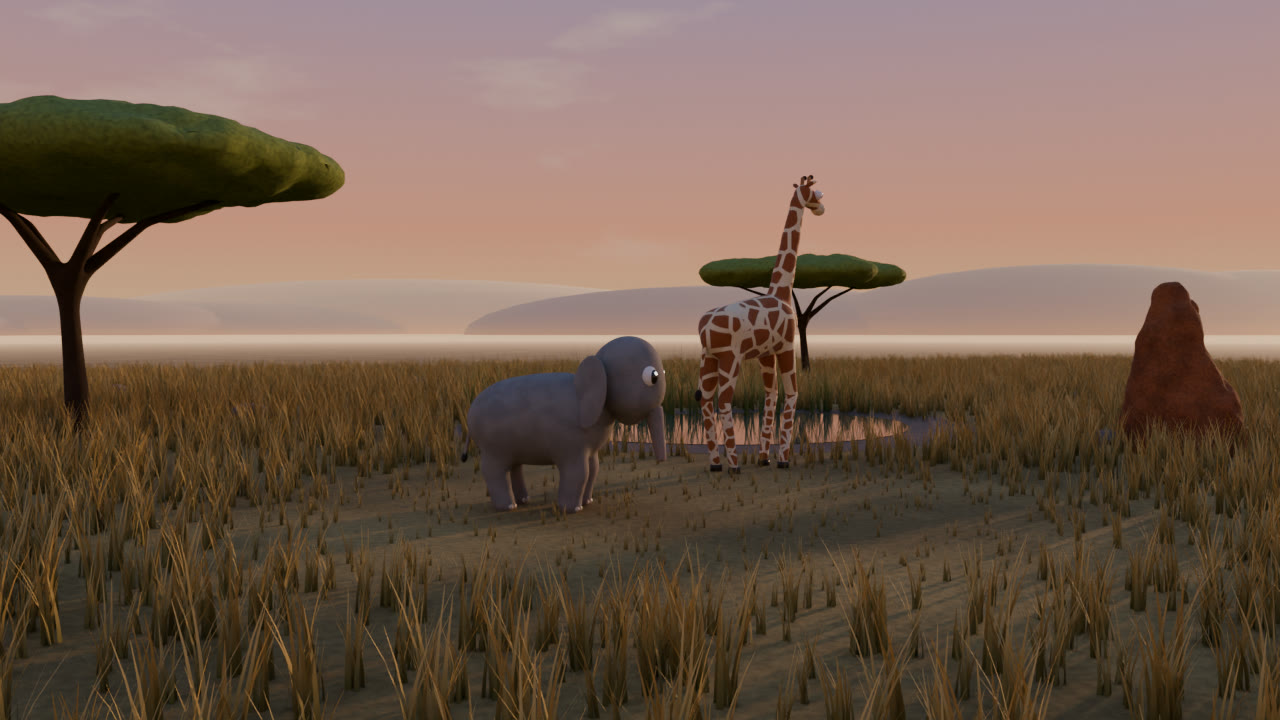
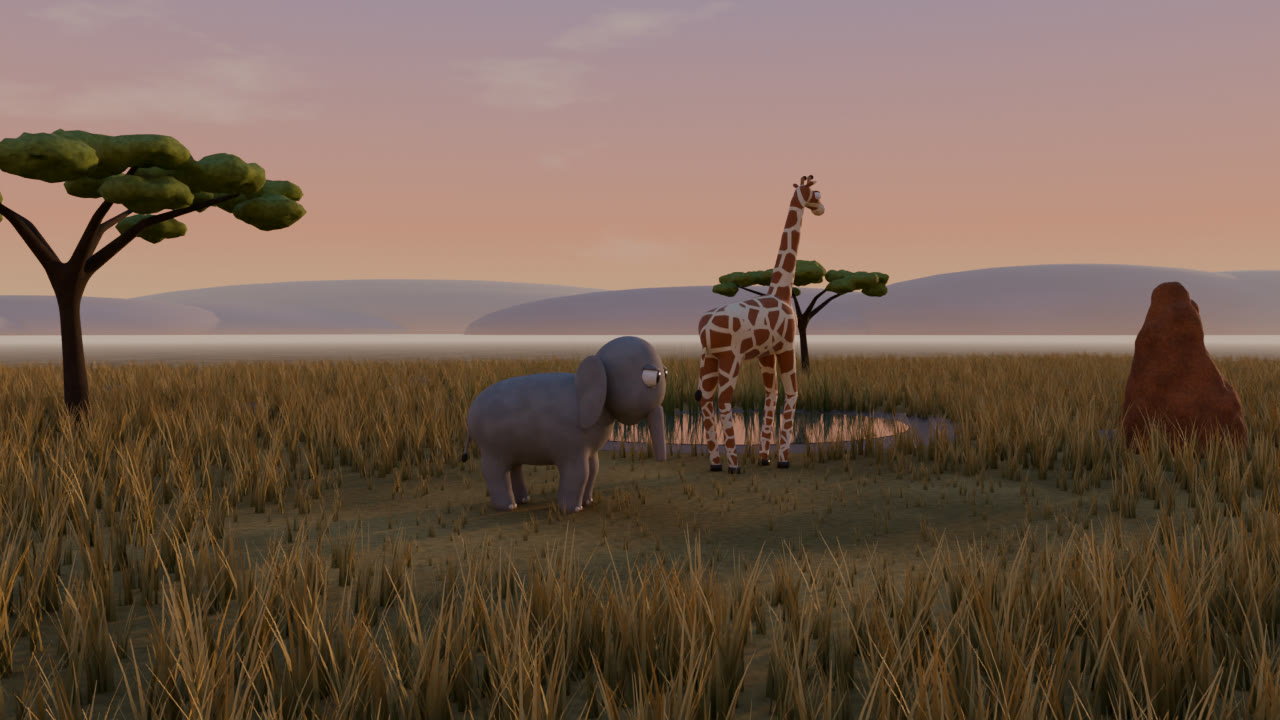
Set: clumped acacia canopies with gaps, warm per-time-of-day haze and hills, denser foreground grass without rows
scatter.dense (random per-point thinning from the max density), MaterialSpec.fade_glow, no ground
specular. Dawn and midday stills re-rendered. DECISIONS #49.

diff --git a/src/animatica/sets/savannah.py b/src/animatica/sets/savannah.py
@@ -18,6 +18,8 @@ V3 = tuple[float, float, float]
 SKY: dict[str, dict[str, Any]] = {
     # zenith, horizon, glow, sun elevation/azimuth (deg), sun colour/energy, world strength, stars, clouds
     "dawn": {
+        "haze": "#E8C6A0",
+        "hills": "#9C8FA6",
         "zenith": "#6E8CC6",
         "horizon": "#F6C38C",
         "glow": "#EFA07E",
@@ -31,9 +33,11 @@ SKY: dict[str, dict[str, Any]] = {
         "cloud": "#FFD9C0",
     },
     "midday": {
+        "haze": "#C9B48A",
+        "hills": "#8A7560",
         "zenith": "#3E7ED0",
-        "horizon": "#D4E6F2",
-        "glow": "#A9CDEB",
+        "horizon": "#CADBE4",
+        "glow": "#D9DDD2",  # a faintly warm, dusty glow low in the sky
         "elev": 62,
         "az": 160,
         "sun": "#FFF3E0",
@@ -44,6 +48,8 @@ SKY: dict[str, dict[str, Any]] = {
         "cloud": "#FFFFFF",
     },
     "afternoon": {
+        "haze": "#D2BA90",
+        "hills": "#9E8876",
         "zenith": "#4C7FC4",
         "horizon": "#EBD8B0",
         "glow": "#E9C58E",
@@ -57,6 +63,8 @@ SKY: dict[str, dict[str, Any]] = {
         "cloud": "#FFF2E0",
     },
     "sunset": {
+        "haze": "#E9B07E",
+        "hills": "#8E6F7E",
         "zenith": "#5868AC",
         "horizon": "#F5AE66",
         "glow": "#E57F66",
@@ -70,6 +78,8 @@ SKY: dict[str, dict[str, Any]] = {
         "cloud": "#F7A88A",
     },
     "night": {
+        "haze": "#1E2A4E",
+        "hills": "#1A2240",
         "zenith": "#060A1E",
         "horizon": "#1C2850",
         "glow": "#2A3666",
@@ -101,6 +111,10 @@ class Layout:
     paths: list[tuple[float, float, float]] = field(default_factory=list)  # grass cleared (x, y, r)
     reeds_at: float = 90.0  # degrees: which side of the water the reeds grow on (90 = the back, +Y)
     grass_density: float = 14.0
+    # grass gets denser toward the cameras: (x, y, radius, density multiplier); default: in front of each action
+    # circle on the camera side (-Y), see dense_regions()
+    dense: list[tuple[float, float, float, float]] | None = None
+    camera_side: tuple[float, float] = (0.0, -1.0)
     grass_extent: float = 34.0
     seed: int = 7
 
@@ -192,39 +206,58 @@ def acacia_ops(tid: str, at: tuple[float, float], scale: float, seed: int) -> li
             ),
         },
     ]
-    # the flat canopy: overlapping flattened clumps at the branch tips plus a layer over the middle
+    # the canopy: layered foliage clumps with sky between them, not one cushion. An upper tier of flattened
+    # clumps on jittered rings over the crown (some positions skipped: gaps), a lower tier hanging under the
+    # branch tips. Small metaball radii relative to their spacing keep the clumps apart.
     els = []
     top = max(t[2] for t in tips)
-    for t in tips:
+    crown = max(math.dist(t[:2], fork[:2]) for t in tips) + 0.7 * s
+    cx, cy = (
+        sum(t[0] for t in tips) / len(tips) * 0.5 + fork[0] * 0.5,
+        sum(t[1] for t in tips) / len(tips) * 0.5 + fork[1] * 0.5,
+    )
+
+    def clump(x: float, y: float, z: float, r: float, flat: float) -> None:
         els.append(
             {
                 "type": "ellipsoid",
-                "co": [round(t[0], 3), round(t[1], 3), round(top + 0.15 * s, 3)],
-                "radius": round(1.5 * s / 0.575, 3),
-                "size": [1.0, 1.0, 0.32],
+                "co": [round(x, 3), round(y, 3), round(z, 3)],
+                "radius": round(r / 0.575, 3),
+                "size": [1.0, 1.0, flat],
             }
         )
-    els.append(
-        {
-            "type": "ellipsoid",
-            "co": [round(fork[0], 3), round(fork[1], 3), round(top + 0.3 * s, 3)],
-            "radius": round(2.2 * s / 0.575, 3),
-            "size": [1.0, 1.0, 0.25],
-        }
-    )
+
+    clump(cx, cy, top + 0.35 * s, 0.75 * s, 0.4)
+    for ring, n, rr in ((0.45, 6, 0.62), (0.85, 11, 0.55)):
+        a0 = rng.uniform(0, 2 * math.pi)
+        for k in range(n):
+            if rng.random() < 0.22:
+                continue  # a gap in the canopy
+            a = a0 + 2 * math.pi * (k + rng.uniform(-0.2, 0.2)) / n
+            d = crown * ring * rng.uniform(0.9, 1.1)
+            clump(
+                cx + math.cos(a) * d,
+                cy + math.sin(a) * d,
+                top + rng.uniform(0.05, 0.3) * s - ring * 0.25 * s,
+                rr * s * rng.uniform(0.8, 1.15),
+                rng.uniform(0.32, 0.45),
+            )
+    for t in tips:  # the lower tier, under and just outside each branch tip
+        a = math.atan2(t[1] - fork[1], t[0] - fork[0]) + rng.uniform(-0.4, 0.4)
+        clump(t[0] + math.cos(a) * 0.4 * s, t[1] + math.sin(a) * 0.4 * s, top - 0.45 * s, 0.5 * s, 0.42)
     ops += [
         {
             "op": "create_metaball_mesh",
             "id": f"{tid}_canopy",
             "elements": els,
-            "resolution": round(0.12 * s, 3),
+            "resolution": round(0.09 * s, 3),
             "tags": ["set", "tree"],
         },
         {
             "op": "add_modifier",
             "target": f"{tid}_canopy",
             "type": "displace",
-            "params": {"noise_scale": 0.9 * s, "strength": 0.35 * s},
+            "params": {"noise_scale": 0.35 * s, "strength": 0.28 * s},  # leafy, broken edges
         },
         {
             "op": "set_material",
@@ -439,11 +472,24 @@ def sky_ops(tod: str) -> list[dict[str, Any]]:
     ]
 
 
+def dense_regions(layout: Layout) -> list[tuple[float, float, float, float]]:
+    """Where the grass thickens: between each action circle and the cameras (foreground grass reads as depth;
+    sparse tufts near the lens read as rows)."""
+    if layout.dense is not None:
+        return layout.dense
+    hx, hy = layout.camera_side
+    return [(x + hx * (r + 4.0), y + hy * (r + 4.0), r + 3.0, 2.6) for x, y, r in layout.action]
+
+
 def savannah_set(layout: Layout, tod: str = "sunset") -> list[dict[str, Any]]:
     """Ops for a full savannah set at time of day ``tod``."""
     rng = random.Random(layout.seed)
-    horizon = SKY[tod]["horizon"]
-    haze = {"fade_to": horizon, "fade_start": 18.0, "fade_end": 140.0}
+    # aerial perspective: distance fades into a warm, dusty haze (not the sky's horizon colour, which made the
+    # midday hills and the far grass read white); midday haze starts closer (heat and dust)
+    hz = SKY[tod]["haze"]
+    near, far = (14.0, 115.0) if tod in ("midday", "afternoon") else (18.0, 140.0)
+    glow = {"midday": 0.2, "afternoon": 0.3, "dawn": 0.6, "sunset": 0.65}.get(tod, 1.0)
+    haze = {"fade_to": hz, "fade_start": near, "fade_end": far, "fade_glow": glow}
     ops: list[dict[str, Any]] = [
         {
             "op": "create_primitive",
@@ -458,6 +504,7 @@ def savannah_set(layout: Layout, tod: str = "sunset") -> list[dict[str, Any]]:
             "material": _m(
                 GROUND,
                 1.0,
+                specular=0.0,  # no grazing-angle sheen: it lit the far ground into a white strip
                 noise=0.4,
                 noise_scale=0.35,
                 grain=0.35,
@@ -510,8 +557,9 @@ def savannah_set(layout: Layout, tod: str = "sunset") -> list[dict[str, Any]]:
             "surface": "grass_field",
             "instance": "grass_tuft",
             "density": layout.grass_density,
+            "dense": [list(c) for c in dense_regions(layout)],
             "seed": layout.seed,
-            "scale": (0.7, 1.5),
+            "scale": (0.6, 1.6),
             "clear": [list(c) for c in clear],
             "short": [list(c) for c in layout.action],
             "short_scale": 0.3,
@@ -597,7 +645,7 @@ def savannah_set(layout: Layout, tod: str = "sunset") -> list[dict[str, Any]]:
                 "material": _m("#7D7066", 0.9, noise=0.3, noise_scale=4.0, bump=0.3, **haze, name="rocks"),
             }
         )
-    # distant mountains: a hazy blue band (they dissolve into the horizon colour with distance)
+    # distant hills: warm, hazy humps (they dissolve into the haze colour with distance)
     # far and low (a few degrees above the horizon), many overlapping humps -> a ridgeline, not dunes
     mts = []
     for i in range(16):
@@ -624,7 +672,15 @@ def savannah_set(layout: Layout, tod: str = "sunset") -> list[dict[str, Any]]:
             "op": "set_material",
             "targets": mts,
             "material": _m(
-                "#8C93AC", 1.0, fade_to=horizon, fade_start=150.0, fade_end=470.0, name="mountains"
+                SKY[tod]["hills"],
+                1.0,
+                noise=0.25,
+                noise_scale=0.02,
+                fade_to=hz,
+                fade_start=120.0,
+                fade_end=560.0,
+                fade_glow=glow,
+                name="mountains",
             ),
         }
     )

diff --git a/adapters/blender/animatica_blender/ops_scene.py b/adapters/blender/animatica_blender/ops_scene.py
@@ -494,11 +494,57 @@ class SceneOps:
         sinfo.transform_space = "RELATIVE"
         dist = n.new("GeometryNodeDistributePointsOnFaces")
         dist.distribute_method = "RANDOM"
-        dist.inputs["Density"].default_value = op.get("density", 10.0)
+        dense = op.get("dense", [])
+        top = max([1.0] + [float(c[3]) for c in dense])
+        dist.inputs["Density"].default_value = op.get("density", 10.0) * top
         dist.inputs["Seed"].default_value = op.get("seed", 0)
         ln.new(sinfo.outputs["Geometry"], dist.inputs["Mesh"])
         pos = n.new("GeometryNodeInputPosition")
         points = dist.outputs["Points"]
+        if dense:
+            # keep each point with probability mult(pos) / top, mult = 1 outside the circles, rising smoothly
+            # to the circle's multiplier toward its centre (max over circles)
+            mult = None
+            for cx, cy, r, m in dense:
+                flat = n.new("ShaderNodeVectorMath")
+                flat.operation = "MULTIPLY"
+                flat.inputs[1].default_value = (1.0, 1.0, 0.0)
+                ln.new(pos.outputs["Position"], flat.inputs[0])
+                d = n.new("ShaderNodeVectorMath")
+                d.operation = "DISTANCE"
+                ln.new(flat.outputs["Vector"], d.inputs[0])
+                d.inputs[1].default_value = (cx, cy, 0.0)
+                mr = n.new("ShaderNodeMapRange")
+                mr.interpolation_type = "SMOOTHSTEP"
+                mr.inputs["From Min"].default_value = r
+                mr.inputs["From Max"].default_value = r * 0.4
+                mr.inputs["To Min"].default_value = 1.0
+                mr.inputs["To Max"].default_value = m
+                ln.new(d.outputs["Value"], mr.inputs["Value"])
+                if mult is None:
+                    mult = mr.outputs["Result"]
+                else:
+                    mx = n.new("ShaderNodeMath")
+                    mx.operation = "MAXIMUM"
+                    ln.new(mult, mx.inputs[0])
+                    ln.new(mr.outputs["Result"], mx.inputs[1])
+                    mult = mx.outputs[0]
+            keep = n.new("ShaderNodeMath")
+            keep.operation = "DIVIDE"
+            ln.new(mult, keep.inputs[0])
+            keep.inputs[1].default_value = top
+            rnd_k = n.new("FunctionNodeRandomValue")
+            rnd_k.data_type = "FLOAT"
+            rnd_k.inputs["Seed"].default_value = op.get("seed", 0) + 29
+            drop = n.new("FunctionNodeCompare")
+            drop.data_type, drop.operation = "FLOAT", "GREATER_THAN"
+            ln.new(rnd_k.outputs["Value"], drop.inputs["A"])
+            ln.new(keep.outputs[0], drop.inputs["B"])
+            thin = n.new("GeometryNodeDeleteGeometry")
+            thin.domain = "POINT"
+            ln.new(points, thin.inputs["Geometry"])
+            ln.new(drop.outputs["Result"], thin.inputs["Selection"])
+            points = thin.outputs["Geometry"]
         # cleared circles: delete points within (x, y, r)
         for cx, cy, r in op.get("clear", []):
             d = n.new("ShaderNodeVectorMath")

diff --git a/src/animatica/core/protocol.py b/src/animatica/core/protocol.py
@@ -83,6 +83,9 @@ class MaterialSpec(BaseModel):
     fade_to: str | None = None  # aerial perspective: blend toward this colour with distance from origin
     fade_start: float = Field(15.0, ge=0)
     fade_end: float = Field(90.0, gt=0)
+    # how much of the faded colour is emitted (1: distant things glow at the haze colour regardless of light;
+    # under a high sun lower it, or the far ground and hills blow out to white)
+    fade_glow: float = Field(1.0, ge=0, le=1)
     radial_glow: bool = False  # emission fades to transparent at the edges (sun/moon halos)
     # fine surface detail: a second, small-scale noise darkens specks (grit, gravel) and drives a bump
     grain: float = Field(0.0, ge=0, le=1)
@@ -360,6 +363,9 @@ class Scatter(_Op):
     clear: list[tuple[float, float, float]] = Field(default_factory=list)  # (x, y, radius): nothing grows
     short: list[tuple[float, float, float]] = Field(default_factory=list)  # (x, y, radius): kept low
     short_scale: float = Field(0.35, gt=0, le=1)
+    # (x, y, radius, multiplier): denser inside, fading out to the base density at the edge. Points are scattered
+    # at the highest density and thinned at random per point, so there is no grid and no rows.
+    dense: list[tuple[float, float, float, float]] = Field(default_factory=list)
     wind: float = Field(0.0, ge=0, le=1)  # sway amplitude (radians-ish); gusts travel across the field
     wind_speed: float = Field(0.6, ge=0, le=20)
 

diff --git a/tests/test_creatures.py b/tests/test_creatures.py
@@ -208,3 +208,21 @@ def test_rig_checks_thresholds():
     checks = sorted(i.check for i in rig_checks(rep(0.3, 0.05, 0.02))[0])
     assert checks == ["eye_socket", "lid_float", "texture_swim"]
     assert [i.message for i in rig_checks(rep(0.78, 0.0, 0.0))[0]][0].endswith("of its diameter")
+
+
+def test_savannah_set_dense_grass_canopy_clumps_and_warm_haze():
+    from animatica.core.protocol import validate_batch
+    from animatica.sets.savannah import Layout, dense_regions, savannah_set
+
+    lay = Layout(action=[(0.0, 2.0, 4.0)])
+    ((x, y, r, m),) = dense_regions(lay)
+    assert y < 2.0 - 4.0 and m > 1  # in front of the action, on the camera side
+    ops = savannah_set(lay, "midday")
+    validate_batch({"batch_id": "set", "ops": ops})
+    grass = next(o for o in ops if o["op"] == "scatter" and o["id"] == "grass")
+    assert grass["dense"] == [[x, y, r, m]]
+    canopy = next(o for o in ops if o["op"] == "create_metaball_mesh" and o["id"].endswith("_canopy"))
+    assert len(canopy["elements"]) >= 10  # many clumps, not one cushion
+    hills = next(o for o in ops if o["op"] == "set_material" and o["material"].get("name") == "mountains")
+    r_, g_, b_ = (int(hills["material"]["base_color"][i : i + 2], 16) for i in (1, 3, 5))
+    assert r_ > b_ and hills["material"]["fade_glow"] < 0.5  # warm, and not blown out by the haze glow

diff --git a/adapters/blender/animatica_blender/ops_material.py b/adapters/blender/animatica_blender/ops_material.py
@@ -194,7 +194,11 @@ class MaterialOps:
             em.inputs["A"].default_value = (0, 0, 0, 1)
             em.inputs["B"].default_value = (*hex_to_rgb(spec["fade_to"]), 1)
             links.new(em.outputs["Result"], bsdf.inputs["Emission Color"])
-            links.new(mr.outputs["Result"], bsdf.inputs["Emission Strength"])
+            glow = nodes.new("ShaderNodeMath")
+            glow.operation = "MULTIPLY"
+            glow.inputs[1].default_value = spec.get("fade_glow", 1.0)
+            links.new(mr.outputs["Result"], glow.inputs[0])
+            links.new(glow.outputs[0], bsdf.inputs["Emission Strength"])
         if color_out is not None:
             links.new(color_out, bsdf.inputs["Base Color"])
         if normal_out is not None:

diff --git a/docs/DECISIONS.md b/docs/DECISIONS.md
@@ -86,6 +86,10 @@ One line per decision: what + why. Newest at the bottom.
     * Chosen over baked UVs: no unwrap of metaball meshes, no texture images, and the procedural looks stay exactly as tuned.
     * *Critic.* `inspect.swim` reads each deforming mesh's texture coordinates on a fixed vertex sample and reports p95/max drift from the first frame; `texture_swim` fails above 2 mm. Before: the elephant's skin wrinkles slid 142 mm (p95) over a walk. After: 0.0 mm on all five. A Blender test bends a striped tube both ways.
 48. **Meerkat v3: slim and long-legged, dorsal-only bands, painted eye patches** (owner: "walks like a striped hamster", "eye patches like black sunglasses"; 2026-11-17). Torso 0.122 × 0.27 × 0.13 m → 0.084 × 0.235 × 0.09 m (length/width 2.2 → 2.8), body 0.105 → 0.128 m up on longer legs, a narrower head (0.06 m) with a long tapering snout. A first try at 3.3× with short legs read as a sausage dog; 2.8× with daylight under the belly reads as a mongoose. The back bands are fainter (#9E774A on #B08452), thinner and more irregular, and only on the top of the back: new `MaterialSpec.pattern_above` fades markings in above an object-space height (rest coordinates, so they stay put when she stands up). The two black patch spheres that enclosed the eyes are gone; new `MaterialSpec.marks` paints soft ellipsoids in object space, and `Species.eye_patch` puts a teardrop round each eye, reaching back and down, so the socketed eyes and their dark lids sit visibly inside a subtle patch. A material shared by name now gets one spec everywhere (the ears had rebuilt `meerkat_coat` without the marks).
+49. **Set pass: clumped acacia canopies, a warm haze per time of day, denser foreground grass** (owner notes, 2026-11-17).
+    * *Canopy.* One metaball cushion → a centre clump, two jittered rings of flattened clumps with ~22 % of positions skipped (gaps), and a lower tier under the branch tips; metaball radii are small against their spacing so clumps stay separate, and a finer displacement breaks their edges.
+    * *Haze.* Distant things faded to the sky's horizon colour *and* emitted it at full strength, which under a high sun blew the hills and far plain out to white. Each time of day now has its own haze and hill colours (midday: dry straw haze #C9B48A, hills #8A7560), and new `MaterialSpec.fade_glow` sets the emitted share (0.2 at midday, 0.6 at dawn, 1 at night). The ground has no specular: grazing-angle sheen lit the far plain into a white strip. Midday haze starts at 14 m (heat and dust).
+    * *Grass.* `scatter.dense` circles raise density toward their centre: points are distributed at the highest density and thinned at random per point (keep probability = local multiplier / max), so the result stays a uniform random field with no grid or rows. `Layout.dense` defaults to a circle in front of each action area on the camera side (2.6×).
 
 49. **Acting is a layer of body-space rotations composed over the locomotion keys** (review 11-17 01:30: "the gag isn't in the picture"). `animatica.creatures.gesture` describes every acting beat as a rotation about an axis in the creature's body frame (turn about the world vertical, pitch nose-down, swing an ear outward), and converts it into each bone's own rest frame with Blender's roll-0 bone matrix (`B^T R B`), so one description drives every species' rig. The layer is composed *outside* the gait keys (`posed = R_gesture · rest · R_gait`), so a head that turns keeps its walk nod and a drinking trunk keeps a little sway. Alternatives rejected: Blender Damped Track / IK constraints with keyed influence (needs new adapter ops, the constraint fights the per-frame gait keys, and the critic could no longer predict poses in pure Python), and hand-posed actions per species (doesn't scale to 10 scenes × 6 characters).
     * **Eyelines are automatic**: listeners turn toward whoever is speaking from just before the first word to 0.5 s after the last; a speaker turns 45 % of the way toward the line's addressee (`"to"`), so faces stay cheated to the lens. The angle and its on/off weight go through two cascaded low-passes (τ 0.11 s): a 70° turn takes ≈ 0.5 s and eases in and out (a test bounds the per-frame speed). Turns are capped at 70°; the neck chain takes 55 %, the head the rest. The axis is the *world* vertical expressed in the body frame, so the upright meerkat turns her head, not her chin.

diff --git a/examples/showcase/savannah-set-tests/README.md b/examples/showcase/savannah-set-tests/README.md
@@ -12,3 +12,8 @@ standing in the action area (Cycles on OptiX, 1280×720, ~3 s per still).
 * **Sky**: a gradient with a glow band and cumulus wisps; the night sky has a starfield and blue moonlight.
 
 `python scripts/savannah_set_test.py --tod sunset` (module: `src/animatica/sets/savannah.py`).
+
+**Update 2026-11-17** (`set_dawn.jpg`, `set_midday.jpg` re-rendered): acacia canopies are layered foliage clumps
+with sky between them; distance fades into a warm, dusty haze per time of day (the midday hills and far plain
+were near-white); grass thickens toward the camera side, thinned at random per point so there are no rows.
+`set_sunset.jpg` and `set_night.jpg` are from the earlier build.
